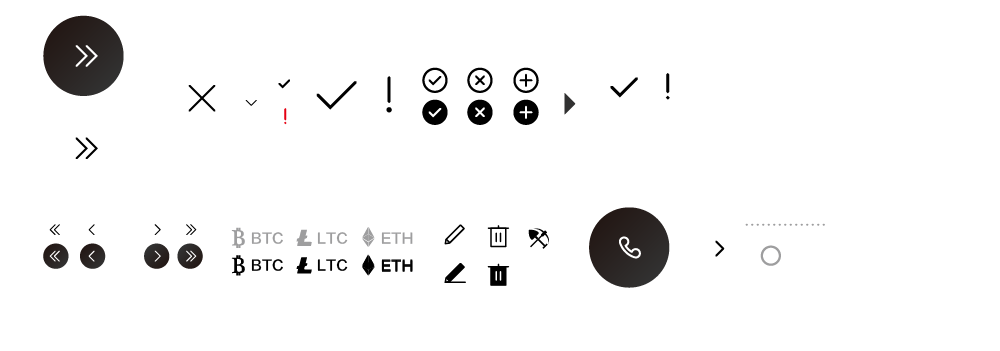
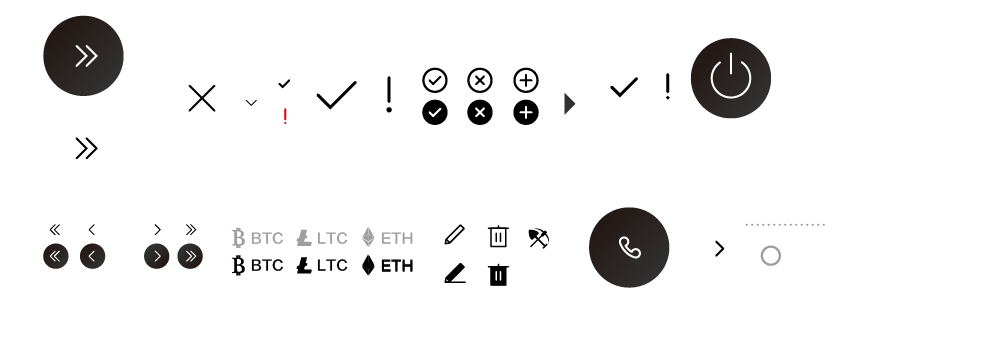
s

Changed region(s): [[0.682, 0.0855, 0.775, 0.3419]]

diff --git a/pangolin/css/layout.css b/pangolin/css/layout.css
@@ -125,7 +125,7 @@
 .infos-frame .btn-links a:last-child{ border-right: none;}
 
 .infos-frame .logout{ position: absolute; bottom: 50px; left: 190px;}
-.infos-frame .logout>a{ width: 81px; height: 81px; display: block; border-radius: 50%; overflow: hidden;}
+.infos-frame .logout>a{ width: 80px; height: 80px; display: block; border-radius: 50%; overflow: hidden;}
 .infos-frame .logout>a:hover{box-shadow: -5px 5px 10px rgba(0,0,0,0.3);}
 .logout .logout-sign{ width: 260px; border-radius: 40px; box-shadow: 0 0 10px rgba(0,0,0,0.1); position: absolute; top: -80px; left: -90px; padding: 10px 0; display: none;}
 .logout .logout-sign:after{ content: ''; width: 12px; height: 6px; background: url('../images/icons.png') no-repeat; background-position: -564px -71px; position: absolute; bottom: -6px; left: 124px;}

diff --git a/pangolin/css/common.css b/pangolin/css/common.css
@@ -59,7 +59,7 @@
 .icons-check-large{ width: 42px; height: 30px; background-position: -316px -80px;}
 .icons-exclamation-large{ width: 6px; height: 37px; background-position: -386px -76px; vertical-align: bottom;}
 .icons-phone{ width: 80px; height: 80px; background-position: -589px -208px;}
-.icons-logout{ width: 81px; height: 81px; background-position: -589px -207px;}
+.icons-logout{ width: 80px; height: 80px; background-position: -691px -38px;}
 .icons-tool{ width: 22px; height: 22px; background-position: -528px -227px; vertical-align: middle;}
 .icons-dots{ width: 82px; height: 4px; background-position: -744px -223px; }
 .icons-arrow-right{ width: 10px; height: 17px; background-position: -715px -240px; }
